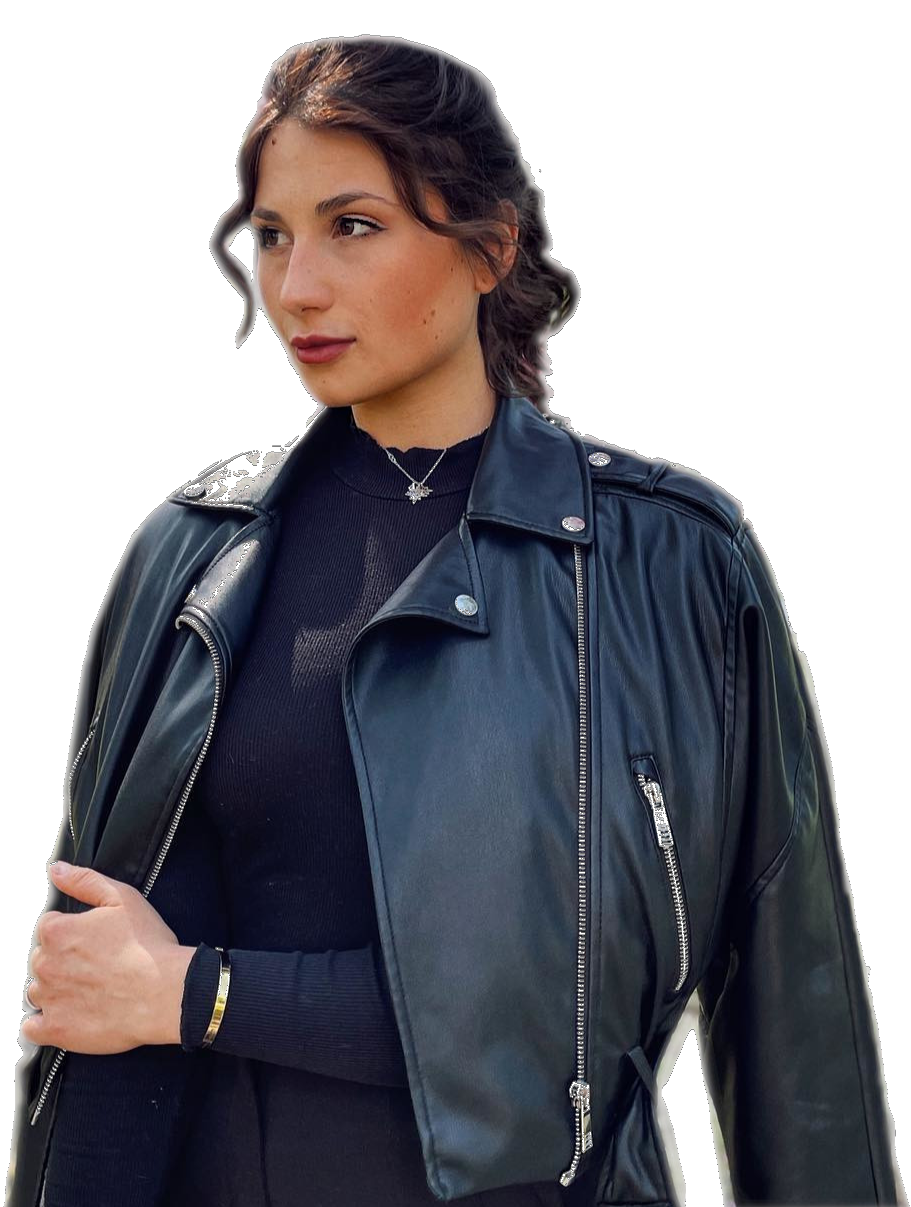
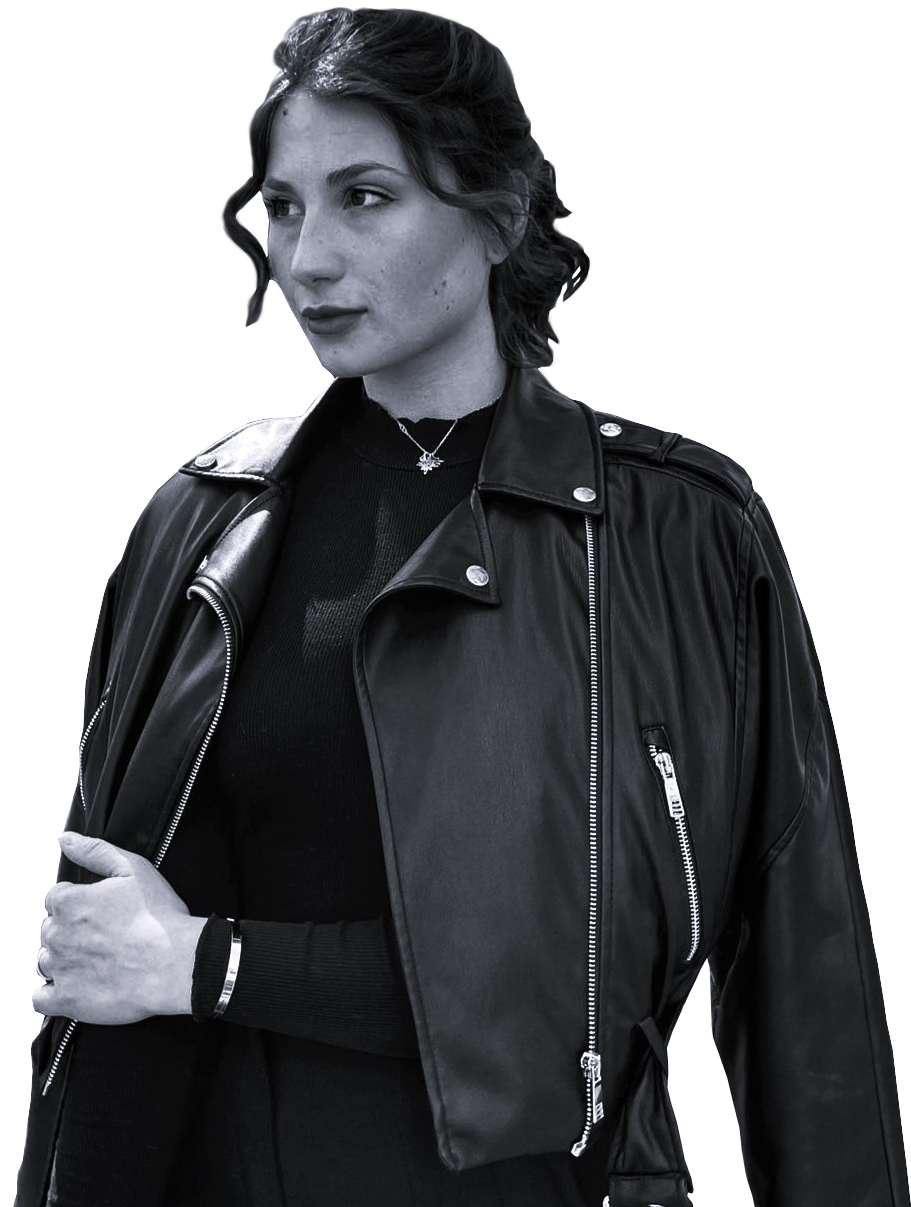
update

diff --git a/index.html b/index.html
@@ -61,7 +61,7 @@
       <div class="about-container reveal">
         <h2>About me</h2>
         <div class="about-item">
-          Arianna Fasulo, perito chimico appassionata di informatica e design da
+          Arianna Fasulo, appassionata di informatica e design da
           sempre.
 
           <br />
@@ -141,13 +141,10 @@
       <div class="tecno-container">
         <div class="tecno-item zoom">
           <ul>
-            <li><img src="./images/html.png" alt="html" /></li>
+            <li><img src="./images/html.png" alt="html"/></li>
             <li><img src="./images/css.png" alt="css" /></li>
             <li><img src="./images/bootstrap.png" alt="css" /></li>
             <li><img src="./images/javascript.webp" alt="js" /></li>
-            
-          </ul>
-          <ul>
             <li><img src="./images/mysql.webp" alt="mysql" /></li>
             <li><img src="./images/Java_Logo.svg.png" alt="java" /></li>
             <li><img src="./images/springboot.png" alt="spring" /></li>
@@ -171,11 +168,11 @@
           alt="sassocartaforbice"
           style="width: 100%"
         />
-        <h1>Sasso carta forbice</h1>
+      <h1>Sasso carta forbice</h1>
         <p class="title">HTML, CSS, JS</p>
         <div class="btn-cards">
-          <button><i class="fa-regular fa-circle-play fa-lg"></i></button>
-          <button><i class="fa-brands fa-github fa-lg"></i></button>
+         <a href="https://guit-ari.github.io/sasso-carta-forbice/" target="_blank"><i class="fa-regular fa-circle-play fa-lg"></i></a>
+         <a href="https://github.com/guit-ari/sasso-carta-forbice" target="_blank"><i class="fa-brands fa-github fa-lg"></i></a>
         </div>
       </div>
 
@@ -184,8 +181,8 @@
         <h1>Guess number</h1>
         <p class="title">HTML, CSS, JS</p>
         <div class="btn-cards">
-          <button><i class="fa-regular fa-circle-play fa-lg"></i></button>
-          <button><i class="fa-brands fa-github fa-lg"></i></button>
+          <a href="https://guit-ari.github.io/guessGame/" target="_blank"><i class="fa-regular fa-circle-play fa-lg"></i></a>
+          <a href="https://github.com/guit-ari/guessGame" target="_blank"><i class="fa-brands fa-github fa-lg"></i></a>
         </div>
       </div>
 
@@ -199,8 +196,8 @@
         <p class="title">HTML, CSS, JS</p>
 
         <div class="btn-cards">
-          <button><i class="fa-regular fa-circle-play fa-lg"></i></button>
-          <button><i class="fa-brands fa-github fa-lg"></i></button>
+          <a href=" https://guit-ari.github.io/Calculator/" target="_blank"><i class="fa-regular fa-circle-play fa-lg"></i></a>
+          <a href="https://github.com/guit-ari/Calculator" target="_blank"><i class="fa-brands fa-github fa-lg"></i></a>
         </div>
       </div>
 
@@ -209,7 +206,7 @@
         <h1>H&M</h1>
         <p class="title">React</p>
         <div class="btn-cards">
-          <button><i class="fa-brands fa-github fa-lg"></i></button>
+          <a href="https://github.com/guit-ari/site_h-m" target="_blank"><i class="fa-brands fa-github fa-lg"></i></a>
         </div>
       </div>
     </div>
@@ -252,11 +249,41 @@
                   <h5>Fidenza, Emilia Romagna, Italy</h5>
                   <h5>Dicembre 2018 - Agosto 2019</h5><br />
                   <p>
-                  Il top, davvero bello friggere le patatine. Mi piacciono molto.  
+                    Vissuta durante l'ultimo anno di superiori, questa
+                    esperienza mi ha dato modo di sviluppare capacità di
+                    comunicazione e relazione con il pubblico, lavoro di
+                    squadra e la puntualità nel rispetto delle consegne, delle
+                    regole e delle gerarchie.                    
                   </p>
               </div>
       
       </div>
+      <!--MAN VOLKSWAGEN-->
+      <div>
+        <a href="https://www.man.eu/it/it/homepage.html"><img class="resume-image" src="./images/MAN-logo-1920x1080.png"></a>
+    </div>
+    <div>
+        
+            <div>
+                <h3>MAN & VOLKSWAGEN</h3>
+                <h4>Alternanza scuola-lavoro</h4>
+                <h5>Germania</h5>
+                <h5>2018</h5><br />
+                <p>
+                  Progetto di alternanza scuola-lavoro, ho vissuto un mese
+                  in Germania in compagnia di altri dieci studenti. Le
+                  giornate si suddividevano al mattino nel partecipare alla
+                  vita scolastica per poi proseguire, nelle aziende
+                  affiancati da operai di linea, con le mansioni
+                  prevalentemente di tipo meccanico.
+                  Ho avuto modo di praticare la lingua inglese e lavorare
+                  in un contesto composto da professionisti del settore
+                  automobilistico.
+                                     
+                </p>
+            </div>
+    
+    </div>
   </div>
 </div>
 <br />
@@ -307,6 +334,7 @@
 
 </div>
 </div>
+
     <!--footer -->
     <div class="footer">
       <a name="contact"></a>

diff --git a/portfolio.css b/portfolio.css
@@ -87,7 +87,7 @@ header.sticky ul li a:hover {
   width: 100%;
   height: 100%;
   object-fit: cover;
-  filter: grayscale(100%);
+
 }
 @media (max-width: 1130px) {
   .profile-pic {
@@ -198,7 +198,7 @@ header.sticky ul li a:hover {
   
 }
 .tecno-container img{
-  width: 20%;
+  width: 50%;
   object-fit: cover;
   transition: transform .2s; /* Animation */
 }
@@ -222,6 +222,7 @@ header.sticky ul li a:hover {
   display: flex;
 
 }
+ 
 /*projects*/
 .container-projects {
   height: 100vh;
@@ -269,7 +270,7 @@ header.sticky ul li a:hover {
   color: #504545;
 }
 
-button {
+.btn-cards a {
   border: none;
   outline: 0;
   display: inline-block;
